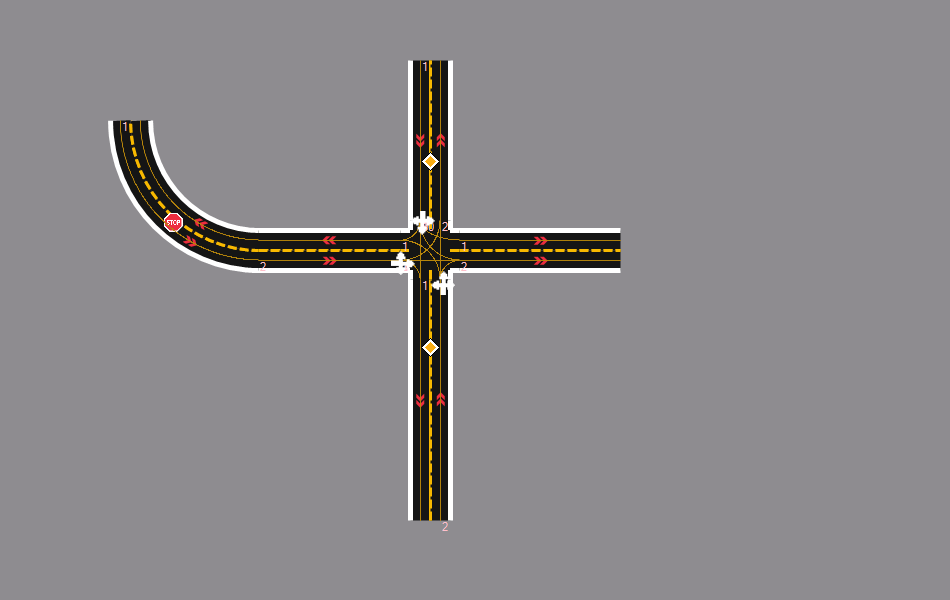
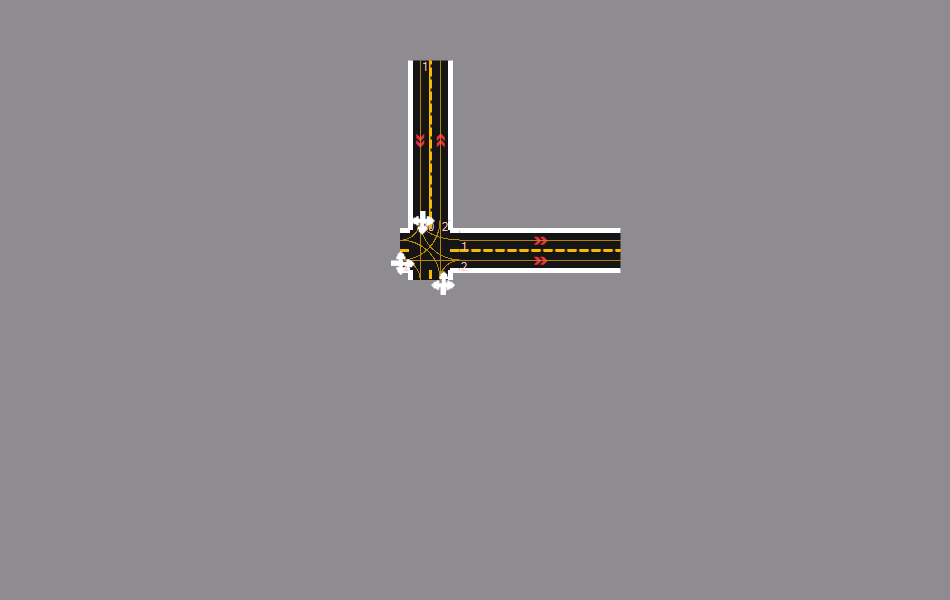
added a better method (not fully finished) for detecting cars on crossroad

Changed region(s): [[0.0916, 0.18, 0.4884, 0.87], [0.4274, 0.24, 0.4579, 0.27]]

diff --git a/GreenLight/GreenLight/src/Driver/BetterAI.cs b/GreenLight/GreenLight/src/Driver/BetterAI.cs
@@ -48,6 +48,7 @@ namespace GreenLight
         public bool wantsToSwitch;
         public bool closeToCars;
         public bool crossRoadOccupied;
+        public bool startedCrossing;
         private BetterGPS navigator;
 
         public int lanePointsMovePerTick;
@@ -65,6 +66,8 @@ namespace GreenLight
 
         public bool isSwitchingLanes;
         public int switchCount;
+
+        public string Goal = "";
 
         public BetterAI(DriverStats _stats)
         {
@@ -122,7 +125,8 @@ namespace GreenLight
             }
 
             InCrossRoadRange();
-            crossRoadRules();
+            //crossRoadRules();
+            ReworkedCrossRoadCheck();
 
             NeedToBrake();
             CalculateAcceleration();
@@ -312,7 +316,7 @@ namespace GreenLight
             }
             int pointsTillEnd = this.vehicle.currentLane.points.Count() - 1 - this.currentLanePointIndex;
 
-            if(pointsTillEnd >= 60)
+            if(pointsTillEnd >= 40)
             {
                 return;
             }
@@ -328,6 +332,7 @@ namespace GreenLight
                 this.currentCrossRoad = _temproad;
 
                 this.currentCrossRoadSide = _crossRoadSide;
+                this.startedCrossing = false;
             }
         }
 
@@ -343,10 +348,12 @@ namespace GreenLight
             }
             else
             {
-                this.currentCrossRoadSide.priorityLevel = this.currentCrossRoadSide.aiOnSide.Max(x => x.priority);
+                this.currentCrossRoadSide.priorityLevel = this.currentCrossRoadSide.aiOnSide.First().priority;
             }
             this.currentCrossRoadSide.driving = false;
             this.currentCrossRoadSide = null;
+            this.currentCrossRoad = null;
+            this.startedCrossing = false;
         }
         
 
@@ -693,6 +700,218 @@ namespace GreenLight
         {
             this.toDelete = true;
             this.vehicle.DeleteVehicle(false);
+        }
+
+        private void ReworkedCrossRoadCheck()
+        {
+            if (this.currentCrossRoad == null || this.vehicle.currentRoad.roadtype == "Cross") 
+            {
+                return; // NO CURRENTCROSSROAD
+            }
+
+            if (this.startedCrossing)
+            {
+                this.crossRoadOccupied = false;
+                return; //YOU ARE ALREADY ON THE CROSSROAD
+            }
+
+            int Num = RoadMath.LanePointsInDistance(vehicle.brakeDistance, this.currentLanePointIndex, this.vehicle.currentLane.points);
+
+            if (vehicle.currentLane.points.Count() - this.currentLanePointIndex > Num + 10)
+            {
+                return; //ENOUGH TIME TO BRAKE, NO NEED OT CHEKC NOW
+            }
+
+            if (this.currentCrossRoadSide == null)
+            {
+                Console.WriteLine("Warning you should never be here! ID 1");
+                return;
+            }
+
+            string _side = this.currentCrossRoadSide.side;
+
+            int _laneSwap = this.navigator.currentPath.LaneSwap.First().Item2;
+            CrossRoadSide _tempside; //= this.currentCrossRoad.sides.First(x => x.hitbox.Contains(navigator.nextRoad.Drivinglanes[_laneSwap - 1].points.Last().cord));
+
+            CrossRoad _nextRoad = (CrossRoad)this.nextRoad;
+
+            _tempside = _nextRoad.sides.ToList().Find(x => x.hitbox.Contains(navigator.nextRoad.Drivinglanes[navigator.currentPath.LaneSwap.First().Item2 - 1].points.Last().cord));
+
+            if (_tempside == null)
+            {
+                Console.WriteLine("Warning you should never be here! ID 2");
+                return; 
+            }
+
+            string _goalSide = _tempside.side;
+            this.Goal = _goalSide;
+
+            bool _allowDrive = true;
+
+            bool leftStatus = this.currentCrossRoad.sides.First(x => x.side == "Left").status;
+            bool rightStatus = this.currentCrossRoad.sides.First(x => x.side == "Right").status;
+            bool topStatus = this.currentCrossRoad.sides.First(x => x.side == "Top").status;
+            bool bottomStatus = this.currentCrossRoad.sides.First(x => x.side == "Bottom").status;
+
+            bool leftDriving = this.currentCrossRoad.sides.First(x => x.side == "Left").driving;
+            bool rightDriving = this.currentCrossRoad.sides.First(x => x.side == "Right").driving;
+            bool topDriving = this.currentCrossRoad.sides.First(x => x.side == "Top").driving;
+            bool bottomDriving = this.currentCrossRoad.sides.First(x => x.side == "Bottom").driving;
+
+            int leftPriority = this.currentCrossRoad.sides.First(x => x.side == "Left").priorityLevel;
+            int rightPriority = this.currentCrossRoad.sides.First(x => x.side == "Right").priorityLevel;
+            int topPriority = this.currentCrossRoad.sides.First(x => x.side == "Top").priorityLevel;
+            int bottomPriority = this.currentCrossRoad.sides.First(x => x.side == "Bottom").priorityLevel;
+
+            // You want to go your own right : Check if your left side has priority over u: otherwise go
+            // You want to go your UP : Check right side & if left has priority
+            // you want to go
+
+            if (_side == "Top")
+            {
+                if(_goalSide == "Right")
+                {
+                    if((leftStatus && leftPriority >= this.priority) || (bottomStatus && bottomPriority >= this.priority) || (rightStatus && rightPriority > this.priority))
+                    {
+                        _allowDrive = false;
+                    }
+                }
+                else if(_goalSide == "Bottom")
+                {
+                    if((leftStatus && leftPriority >= this.priority) || (rightStatus && rightPriority > this.priority))// || (bottomStatus && bottomPriority > this.priority))
+                    {
+                        _allowDrive = false;
+                    }
+                }
+                else if(_goalSide == "Left")
+                {
+                    if (rightStatus && rightPriority > this.priority)
+                    {
+                        _allowDrive = false;
+                    }
+                }
+                else
+                {
+                    Console.WriteLine("ERROR IN GOALSIDE, IN CROSSROAD RULES, YOU SHOULD NEVER BE HERE!!");
+                }
+
+                if (rightDriving)
+                {
+                    _allowDrive = false;
+                }
+            }
+            else if(_side == "Left")
+            {
+                if (_goalSide == "Right")
+                {
+                    if((bottomStatus && bottomPriority >= this.priority) || (topStatus && topPriority > this.priority)) //|| (rightStatus && rightPriority > this.priority))
+                    {
+                        _allowDrive = false;
+                    }
+                }
+                else if (_goalSide == "Bottom")
+                {
+                    if(topStatus && topPriority > this.priority)
+                    {
+                        _allowDrive = false;
+                    }
+                }
+                else if (_goalSide == "Top")
+                {
+                    //RIGHT BOTTOM *TOP
+                    if((rightStatus && rightPriority >= this.priority) || (bottomStatus && bottomPriority >= this.priority) || (topStatus && topPriority > this.priority))
+                    {
+                        _allowDrive = false;
+                    }
+                }
+                else
+                {
+                    Console.WriteLine("ERROR IN GOALSIDE, IN CROSSROAD RULES, YOU SHOULD NEVER BE HERE!!");
+                }
+
+                if (topDriving)
+                {
+                    _allowDrive = false;
+                }
+            }
+            else if(_side == "Bottom")
+            {
+                if (_goalSide == "Right")
+                {
+                    if(leftStatus && leftPriority > this.priority)
+                    {
+                        _allowDrive = false;
+                    }
+                }
+                else if (_goalSide == "Top")
+                {
+                    if((rightStatus && rightPriority >= this.priority) || (topStatus && topPriority > this.priority)) //|| (leftStatus && leftPriority > this.priority))
+                    {
+                        _allowDrive = false;
+                    }
+                }
+                else if (_goalSide == "Left")
+                {
+                    if((rightStatus && rightPriority >= this.priority) || (topStatus && topPriority >= this.priority) || (leftStatus && leftPriority > this.priority))
+                    {
+                        _allowDrive = false;
+                    }
+                }
+                else
+                {
+                    Console.WriteLine("ERROR IN GOALSIDE, IN CROSSROAD RULES, YOU SHOULD NEVER BE HERE!!");
+                }
+
+                if (leftDriving)
+                {
+                    _allowDrive = false;
+                }
+            }
+            else if(_side == "Right")
+            {
+                if (_goalSide == "Top")
+                {
+                    if(bottomStatus && bottomPriority > this.priority)
+                    {
+                        _allowDrive = false;
+                    }
+                }
+                else if (_goalSide == "Bottom")
+                {
+                    //left top *bottom
+                    if((topStatus && topPriority >= this.priority ) || (leftStatus && leftPriority >= this.priority) || (bottomStatus && bottomPriority > this.priority))
+                    {
+                        _allowDrive = false;
+                    }
+                }
+                else if (_goalSide == "Left")
+                {
+                    if ((topStatus && topPriority >= this.priority) || (leftStatus && leftPriority > this.priority)) //|| (bottomStatus && bottomPriority > this.priority))
+                    {
+                        _allowDrive = false;
+                    }
+                }
+
+                if (bottomDriving)
+                {
+                    _allowDrive = false;
+                }
+            }
+
+            if (_allowDrive)
+            {
+                this.crossRoadOccupied = false; //THERE IS A CAR IN THE WAY;                     //this.handBreakOn = true;
+
+                if (this.currentCrossRoadSide.aiOnSide.First() == this && this.currentCrossRoadSide.hitbox.Contains(new Point((int)vehicle.locationX, (int)vehicle.locationY)));
+                {
+                    this.startedCrossing = true;
+                    this.currentCrossRoadSide.driving = true;
+                }
+            }
+            else
+            {
+                this.crossRoadOccupied = true;
+            }
         }
     }
 }

diff --git a/GreenLight/GreenLight/src/Signs/Controller/MainSignController.cs b/GreenLight/GreenLight/src/Signs/Controller/MainSignController.cs
@@ -207,8 +207,6 @@ namespace GreenLight
                     _sign_image = Image.FromFile("../../src/User Interface Recources/Stop_Sign.png");
                     break;
             }
-             this.selectedSign = this.selectedRoad.Signs.Last();
-
             PlacedSign _placed = new PlacedSign(new Point(-100, -100), "", _temp, _sign_image, _selectedRoad, signType, new Point(0, 0), MouseClick, _flipped);
             this.selectedRoad.Signs.Add(_placed);
             SignCount++;

diff --git a/GreenLight/GreenLight/src/Driver/DriverProfile/DriverProfileController.cs b/GreenLight/GreenLight/src/Driver/DriverProfile/DriverProfileController.cs
@@ -134,7 +134,7 @@ namespace GreenLight
             this.mood.Text = _profile.mood;
             this.braking.Text = _ai.isBraking.ToString();
             this.displayImage = _profile.imgFace;
-            this.wantsToSwitch.Text = _ai.wantsToSwitch.ToString();
+            this.wantsToSwitch.Text = _ai.Goal.ToString();
             this.Priority.Text = _ai.priority.ToString();
             this.TargetSpeed.Text = _ai.targetspeed.ToString();
 
